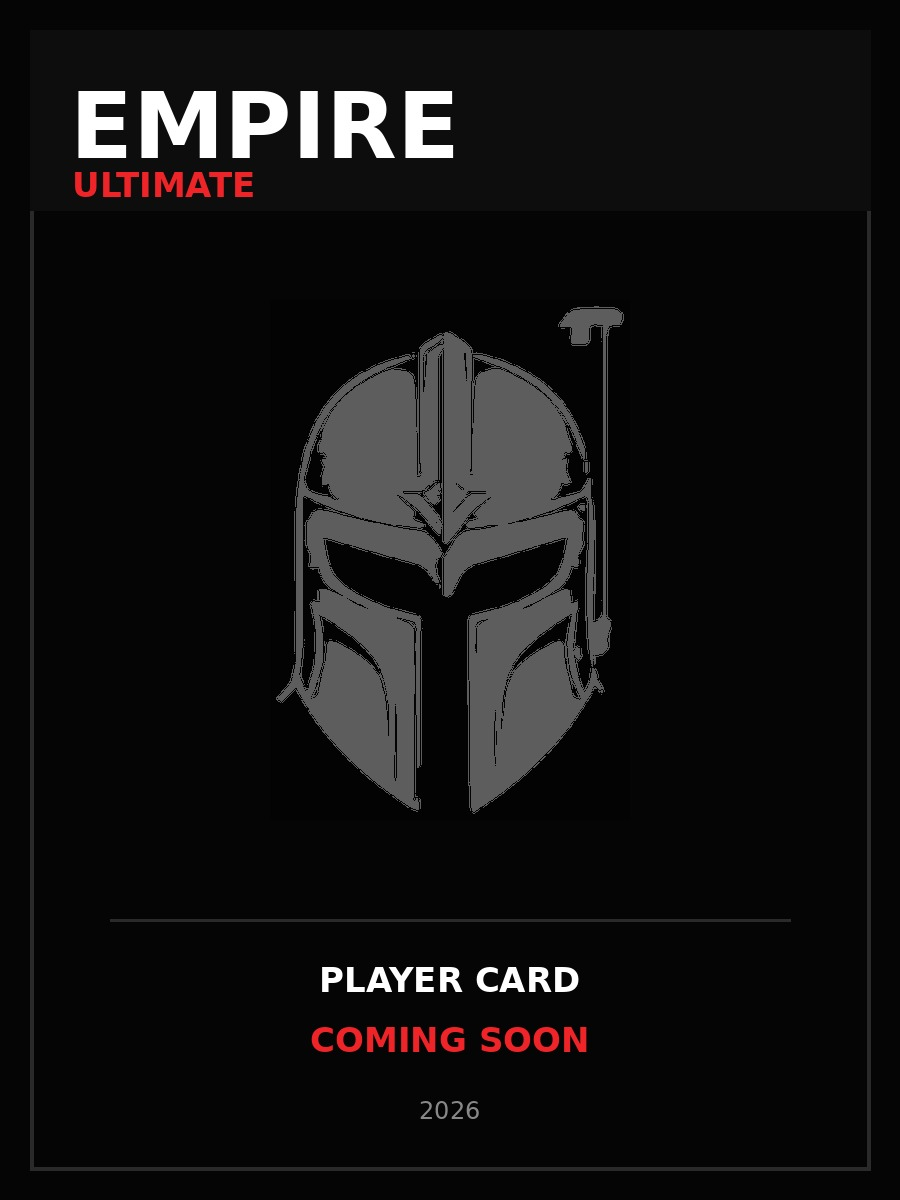
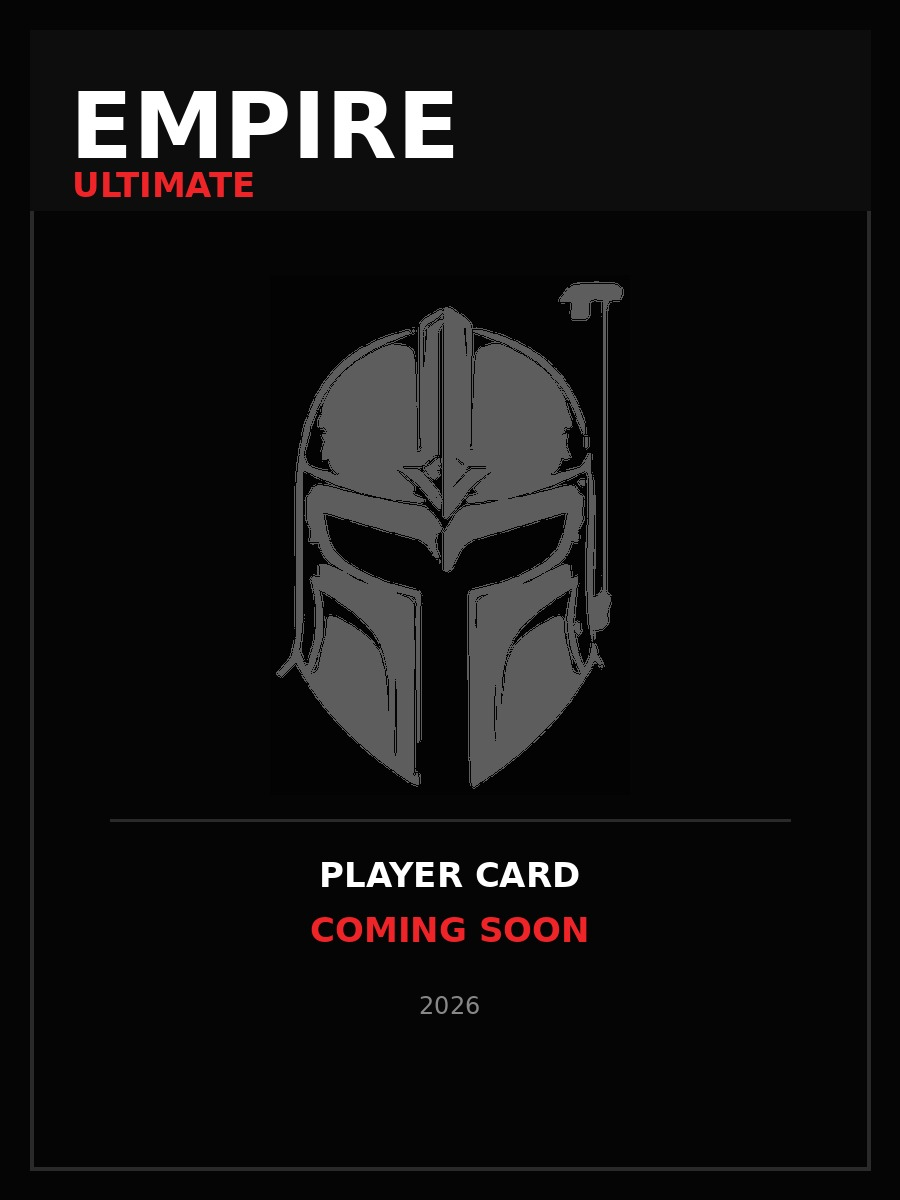
Add files via upload

Changed region(s): [[0.3111, 0.2158, 0.7156, 0.6783], [0.3422, 0.7092, 0.6533, 0.8942], [0.4667, 0.925, 0.4978, 0.9558]]

diff --git a/styles.css b/styles.css
@@ -1628,3 +1628,59 @@ letter-spacing:.08em;
 .roster-tile:focus-visible .placeholder-player-name {
   opacity: .18;
 }
+
+
+/* v2.6 final profile and placeholder polish */
+.individual-profile-content h1 {
+  font-size: clamp(44px, 5.4vw, 74px);
+  line-height: .94;
+  margin-bottom: 30px;
+}
+
+.individual-profile {
+  align-items: stretch;
+}
+
+.individual-profile-art {
+  display: flex;
+  align-items: center;
+  justify-content: center;
+  overflow: hidden;
+}
+
+.individual-profile-art img {
+  width: 100%;
+  height: auto;
+  max-height: 780px;
+  object-fit: contain;
+  object-position: center;
+}
+
+.individual-profile-content {
+  padding-top: clamp(34px, 4.5vw, 60px);
+  padding-bottom: clamp(34px, 4.5vw, 60px);
+}
+
+.profile-bio-block {
+  margin: 34px 0;
+  padding-top: 26px;
+}
+
+.expanded-stats {
+  padding-top: 22px;
+  padding-bottom: 22px;
+}
+
+.placeholder-player-name {
+  bottom: 2.2%;
+}
+
+@media (max-width: 760px) {
+  .individual-profile-content h1 {
+    font-size: clamp(40px, 12vw, 58px);
+  }
+
+  .individual-profile-art img {
+    max-height: 620px;
+  }
+}

diff --git a/README.md b/README.md
@@ -1,10 +1,10 @@
-# Empire Ultimate Website v2.5 — Corrected Roster Overlay
-
-This corrects the v2.4 implementation error.
+# Empire Ultimate Website v2.6 — Final Profile Polish
 
 Changes:
-- Primary position now appears first in large white text.
-- Hometown appears beneath it in white text.
-- “View Profile →” appears last in smaller Empire red.
-- Updated the actual roster JavaScript markup, not just the CSS.
-- Placeholder player names fade slightly on hover so the overlay remains readable.
+- Reduced player-name size on individual profile pages.
+- Shortened and balanced the profile artwork area.
+- Tightened spacing around profile details, bio, and live stats.
+- Rebuilt the generic Coming Soon card so “Player Card” and “Coming Soon” sit well above the player-name overlay.
+- Preserved the improved roster hover hierarchy from v2.5.
+
+Upload all contents over the current GitHub repository files and commit.
